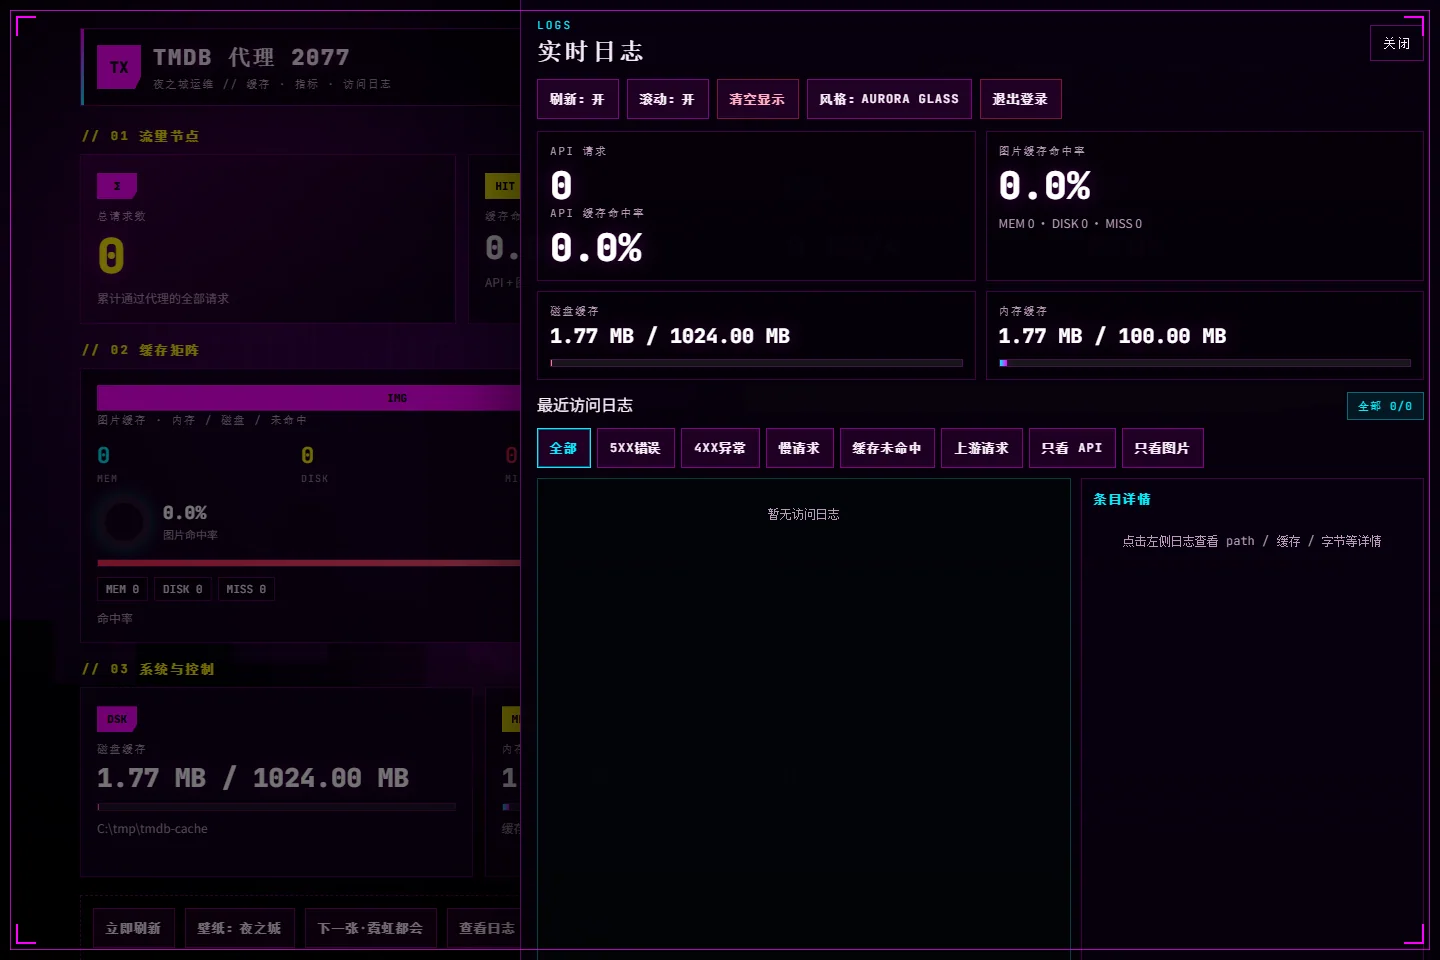
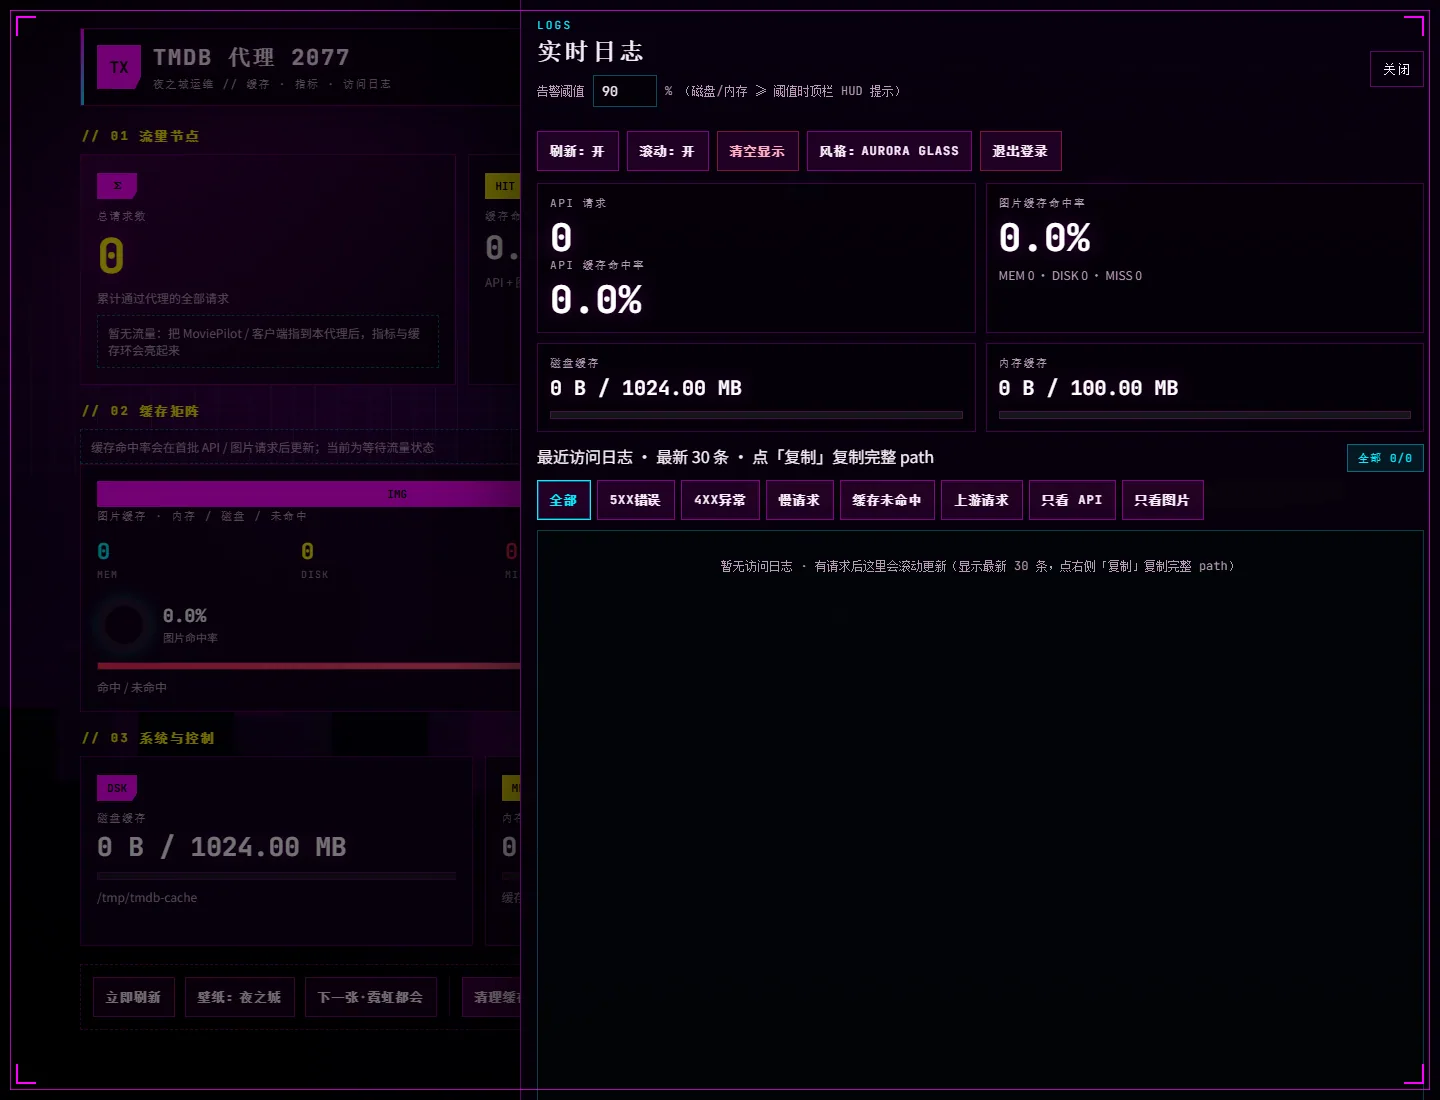
Update admin dashboard docs screenshots for v3.0.
Refresh desktop, mobile, and logs-drawer captures; expand README screenshot section; fix alert threshold default when localStorage is unset; add capture script.

diff --git a/admin-dashboard.html b/admin-dashboard.html
@@ -676,8 +676,10 @@ body.bg-mode-tmdb .bg-fx .beam{opacity:.12}
         let lastLogSig = '';
         let lastLogSince = '';
         const alertPct = ref((() => {
-          const n = Number(localStorage.getItem('tmdb_alert_pct'));
-          return Number.isFinite(n) ? n : 90;
+          // getItem() returns null when unset; Number(null) === 0, so check raw first.
+          const raw = localStorage.getItem('tmdb_alert_pct');
+          const n = Number(raw);
+          return raw != null && raw !== '' && Number.isFinite(n) && n >= 50 && n <= 99 ? n : 90;
         })());
         const logScrollTop = ref(0);
         const copiedLogKey = ref('');

diff --git a/test.js b/test.js
@@ -147,6 +147,8 @@ assert.ok(!/diskPct\s*>=\s*80\s*\|\|\s*memPct\s*>=\s*80/.test(dashboardHtml));
 assert.ok(dashboardHtml.includes('图片内存缓存使用率已超过 90%'));
 assert.ok(!dashboardHtml.includes('资源告警'));
 assert.ok(!dashboardHtml.includes('资源预警'));
+// alert threshold default must not treat Number(null) as 0
+assert.match(dashboardHtml, /raw\s*!=\s*null[\s\S]{0,80}Number\.isFinite\(n\)[\s\S]{0,40}90/);
 // UX features introduced in Night City polish
 assert.match(dashboardHtml, /id=["']hud_alert["']/);
 assert.ok(dashboardHtml.includes('bootingMetrics'));

diff --git a/README.md b/README.md
@@ -44,9 +44,19 @@ ghcr.io/qqcomeup/tmdb-proxy:latest
 - Vue 3、本地字体（JetBrains Mono）从容器内 `/admin/vendor/*` 提供，内网/离线更稳
 - 遵循 `prefers-reduced-motion`，减弱动画
 
-截图示例：
+截图示例（v3.0 管理面板，空白统计仅展示布局）：
+
+### 桌面端总览
 
 ![TMDB Proxy 桌面端管理面板](docs/images/admin-dashboard-desktop.webp)
+
+### 手机端
+
+<img src="docs/images/admin-dashboard-mobile.webp" alt="TMDB Proxy 手机端管理面板" width="390">
+
+### 实时日志抽屉
+
+![TMDB Proxy 实时日志抽屉](docs/images/admin-dashboard-details.webp)
 
 > 背景可为夜之城动态层或 TMDB 随机背景，实际显示会变化。截图不包含真实密钥、Cookie 或访问日志。
 